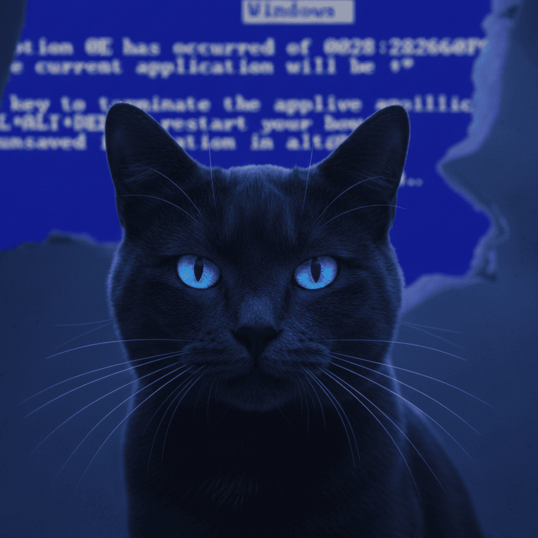
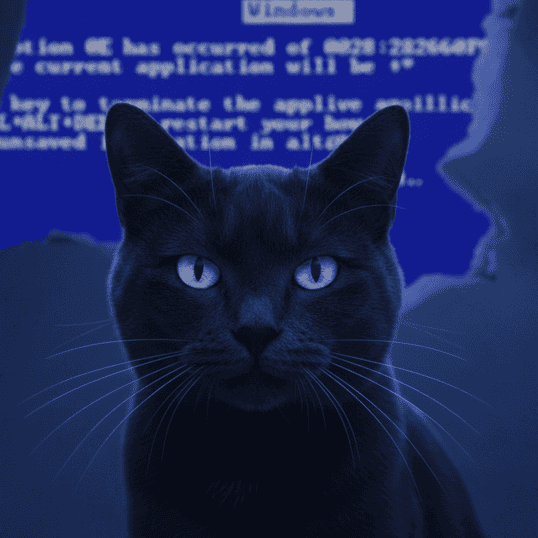
layout update

diff --git a/_sass/minimal-mistakes/_archive.scss b/_sass/minimal-mistakes/_archive.scss
@@ -5,6 +5,8 @@
 .archive {
   margin-top: 1em;
   margin-bottom: 2em;
+  padding-left: 1em;
+  padding-right: 1em;
 
   @include breakpoint($large) {
     float: inline-end;
@@ -428,4 +430,156 @@
 	.feature__wrapper {
 		display: inline-block;
 	}
+}
+
+/* ===== CUSTOM CSS ===== */
+  .hero-banner {
+    height: 420px;
+    overflow: hidden;
+    display: flex;
+    align-items: center;
+    justify-content: center;
+
+    /* ── CAMBIA ESTA LÍNEA por tu GIF ── */
+    background-image: url('/assets/images/blue_screen.gif');
+    background-size: cover;
+    background-position: center;
+    background-color: #050d1a; /* fallback si no hay gif */
+  }
+
+  /* Overlay oscuro para que el contenido destaque sobre el gif */
+  .hero-banner__overlay {
+    position: absolute;
+    inset: 0;
+    background: linear-gradient(
+      to bottom,
+      rgba(4, 9, 15, 0.55) 0%,
+      rgba(4, 9, 15, 0.72) 100%
+    );
+    pointer-events: none;
+  }
+
+  .hero-banner__content {
+    position: relative;
+    z-index: 2;
+    display: flex;
+    flex-direction: column;
+    align-items: center;
+    gap: 14px;
+    text-align: center;
+    padding: 0 20px;
+  }
+
+  /* AVATAR */
+  .hero-banner__avatar-wrapper {
+    width: 110px;
+    height: 110px;
+    border-radius: 50%;
+    padding: 3px;
+    background: linear-gradient(135deg, #1a3ac0, #050d1a);
+    box-shadow: 0 0 24px rgba(10, 40, 160, 0.6);
+  }
+
+  .hero-banner__avatar {
+    width: 100%;
+    height: 100%;
+    border-radius: 50%;
+    object-fit: cover;
+    display: block;
+    filter: brightness(0.92) contrast(1.05);
+  }
+
+  /* TERMINAL */
+  .hero-banner__terminal {
+    font-family: 'Fragment Mono', 'Share Tech Mono', monospace;
+    font-size: 1rem;
+    color: #c8d8e8;
+    letter-spacing: 0.05em;
+    display: flex;
+    align-items: center;
+    gap: 2px;
+  }
+
+  .hero-banner__prompt {
+    color: #4a7fc1;
+    user-select: none;
+  }
+
+  #hero-typed {
+    color: #e8f4ff;
+  }
+
+  .hero-banner__cursor {
+    color: #5b9bd5;
+    animation: blink-cursor 1s step-end infinite;
+    line-height: 1;
+  }
+
+  @keyframes blink-cursor {
+    50% { opacity: 0; }
+  }
+
+  /* BIO */
+  .hero-banner__bio {
+    font-family: 'Fragment Mono', 'Share Tech Mono', monospace;
+    font-size: 0.78rem;
+    color: #6a8aaa;
+    letter-spacing: 0.08em;
+    max-width: 480px;
+    line-height: 1.6;
+    margin: 0;
+    min-height: 1.2em;
+  }
+
+  /* LINKS SOCIALES */
+  .hero-banner__links {
+    display: flex;
+    gap: 18px;
+    margin-top: 4px;
+  }
+
+  .hero-banner__link {
+    color: #4a6a8a;
+    font-size: 1.3rem;
+    transition: color 0.2s, text-shadow 0.2s;
+    text-decoration: none;
+  }
+
+  .hero-banner__link:hover {
+    color: #5b9bd5;
+    text-shadow: 0 0 10px rgba(91, 155, 213, 0.5);
+  }
+
+  /* RESPONSIVE */
+  @media (max-width: 600px) {
+    .hero-banner { height: 380px; }
+    .hero-banner__terminal { font-size: 0.95rem; }
+    .hero-banner__avatar-wrapper { width: 88px; height: 88px; }
+  }
+
+  .hero-banner__terminal {
+  text-shadow: 0 0 20px rgba(0,0,0,0.9), 0 2px 8px rgba(0,0,0,1);
+  border-radius: 2px;
+}
+
+.hero-banner__bio {
+  text-shadow: 0 1px 6px rgba(0,0,0,1);
+  border-radius: 2px;
+}
+
+.hero-banner__overlay {
+  background: linear-gradient(
+    to bottom,
+    rgba(4, 9, 15, 0.70) 0%,
+    rgba(4, 9, 15, 0.85) 100%
+  );
+}
+
+.hero-banner {
+  width: 100vw;
+  position: relative;
+  left: 50%;
+  right: 50%;
+  margin-left: -50vw;
+  margin-right: -50vw;
 }

diff --git a/_includes/hero-banner.html b/_includes/hero-banner.html
@@ -29,161 +29,6 @@
   </div>
 </div>
 
-<style>
-  .hero-banner {
-    position: relative;
-    width: 100% !important;
-    height: 420px;
-    overflow: hidden;
-    display: flex;
-    align-items: center;
-    justify-content: center;
-
-    /* ── CAMBIA ESTA LÍNEA por tu GIF ── */
-    background-image: url('/assets/images/blue_screen.gif');
-    background-size: cover;
-    background-position: center;
-    background-color: #050d1a; /* fallback si no hay gif */
-  }
-
-  /* Overlay oscuro para que el contenido destaque sobre el gif */
-  .hero-banner__overlay {
-    position: absolute;
-    inset: 0;
-    background: linear-gradient(
-      to bottom,
-      rgba(4, 9, 15, 0.55) 0%,
-      rgba(4, 9, 15, 0.72) 100%
-    );
-    pointer-events: none;
-  }
-
-  .hero-banner__content {
-    position: relative;
-    z-index: 2;
-    display: flex;
-    flex-direction: column;
-    align-items: center;
-    gap: 14px;
-    text-align: center;
-    padding: 0 20px;
-  }
-
-  /* AVATAR */
-  .hero-banner__avatar-wrapper {
-    width: 110px;
-    height: 110px;
-    border-radius: 50%;
-    padding: 3px;
-    background: linear-gradient(135deg, #1a3ac0, #050d1a);
-    box-shadow: 0 0 24px rgba(10, 40, 160, 0.6);
-  }
-
-  .hero-banner__avatar {
-    width: 100%;
-    height: 100%;
-    border-radius: 50%;
-    object-fit: cover;
-    display: block;
-    filter: brightness(0.92) contrast(1.05);
-  }
-
-  /* TERMINAL */
-  .hero-banner__terminal {
-    font-family: 'Fragment Mono', 'Share Tech Mono', monospace;
-    font-size: 1rem;
-    color: #c8d8e8;
-    letter-spacing: 0.05em;
-    display: flex;
-    align-items: center;
-    gap: 2px;
-  }
-
-  .hero-banner__prompt {
-    color: #4a7fc1;
-    user-select: none;
-  }
-
-  #hero-typed {
-    color: #e8f4ff;
-  }
-
-  .hero-banner__cursor {
-    color: #5b9bd5;
-    animation: blink-cursor 1s step-end infinite;
-    line-height: 1;
-  }
-
-  @keyframes blink-cursor {
-    50% { opacity: 0; }
-  }
-
-  /* BIO */
-  .hero-banner__bio {
-    font-family: 'Fragment Mono', 'Share Tech Mono', monospace;
-    font-size: 0.78rem;
-    color: #6a8aaa;
-    letter-spacing: 0.08em;
-    max-width: 480px;
-    line-height: 1.6;
-    margin: 0;
-    min-height: 1.2em;
-  }
-
-  /* LINKS SOCIALES */
-  .hero-banner__links {
-    display: flex;
-    gap: 18px;
-    margin-top: 4px;
-  }
-
-  .hero-banner__link {
-    color: #4a6a8a;
-    font-size: 1.3rem;
-    transition: color 0.2s, text-shadow 0.2s;
-    text-decoration: none;
-  }
-
-  .hero-banner__link:hover {
-    color: #5b9bd5;
-    text-shadow: 0 0 10px rgba(91, 155, 213, 0.5);
-  }
-
-  /* RESPONSIVE */
-  @media (max-width: 600px) {
-    .hero-banner { height: 380px; }
-    .hero-banner__terminal { font-size: 0.95rem; }
-    .hero-banner__avatar-wrapper { width: 88px; height: 88px; }
-  }
-
-  .hero-banner__terminal {
-  text-shadow: 0 0 20px rgba(0,0,0,0.9), 0 2px 8px rgba(0,0,0,1);
-  border-radius: 2px;
-}
-
-.hero-banner__bio {
-  text-shadow: 0 1px 6px rgba(0,0,0,1);
-  border-radius: 2px;
-}
-
-.hero-banner__overlay {
-  background: linear-gradient(
-    to bottom,
-    rgba(4, 9, 15, 0.70) 0%,
-    rgba(4, 9, 15, 0.85) 100%
-  );
-}
-
-.hero-banner {
-  width: 100vw;
-  position: relative;
-  left: 50%;
-  right: 50%;
-  margin-left: -50vw;
-  margin-right: -50vw;
-}
-</style>
-
 <script>
 (function () {
   var lines = [

diff --git a/index.html b/index.html
@@ -1,7 +1,6 @@
 ---
 layout: home
 author_profile: false
-classes: wide
 ---
 
 {% include hero-banner.html %}
